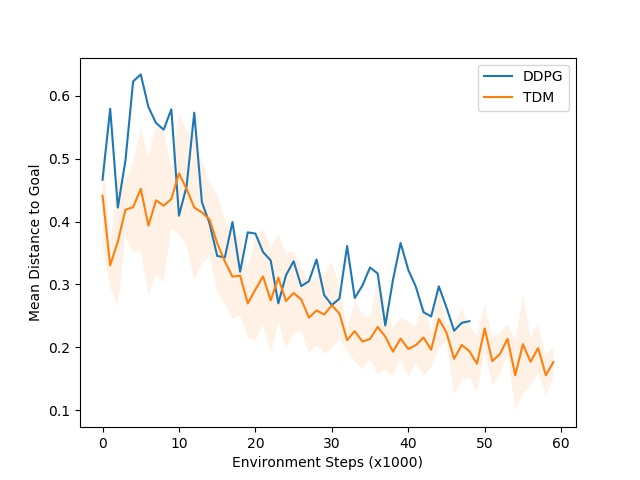
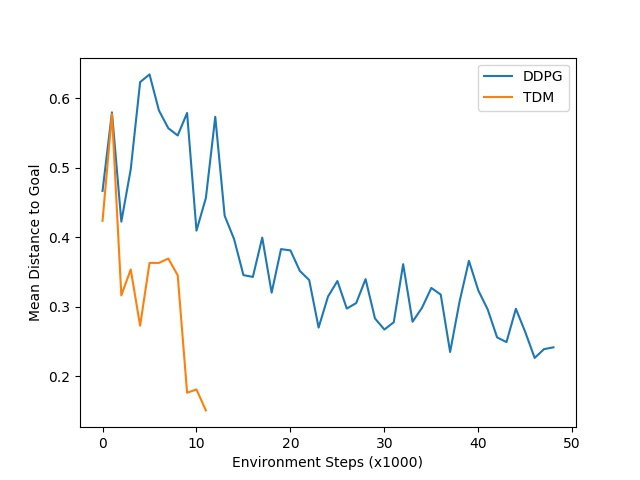
new plots

diff --git a/experiments/state_distance/iclr2018/reacher_results.py b/experiments/state_distance/iclr2018/reacher_results.py
@@ -65,14 +65,15 @@ ddpg_trials = ddpg_exp.get_trials(ddpg_criteria)
 mb_trials = mb_exp.get_trials(mb_criteria)
 her_dense_trials = her_dense_exp.get_trials(her_dense_criteria)
 
-MAX_ITERS = 100
+MAX_ITERS = 10
 
 base_key = 'Final_Euclidean_distance_to_goal_Mean'
 plt.figure()
 for trials, name, key in [
     (ddpg_trials, 'DDPG', base_key),
     (mb_trials, 'Model Based', base_key),
-    (our_trials, 'TDM', 'test_'+base_key),
+    # (our_trials, 'TDM', 'test_'+base_key),
+    (our_trials, 'TDM', base_key),
     (her_dense_trials, 'HER - Dense', 'test_'+base_key),
 ]:
     all_values = []
@@ -85,12 +86,13 @@ for trials, name, key in [
         values[:min_len]
         for values in all_values
     ])
-    costs = costs[:, :min(costs.shape[1], MAX_ITERS)]
+    if name != 'TDM':
+        costs = costs[:, :min(costs.shape[1], MAX_ITERS)]
     mean = np.mean(costs, axis=0)
     std = np.std(costs, axis=0)
     epochs = np.arange(0, len(costs[0]))
-    # if name == 'TDM':
-    #     epochs = epochs / 10
+    if name == 'TDM':
+        epochs = epochs / 10
     plt.fill_between(epochs, mean - std, mean + std, alpha=0.1)
     plt.plot(epochs, mean, label=name)
 

diff --git a/experiments/state_distance/iclr2018/sawyer_results.py b/experiments/state_distance/iclr2018/sawyer_results.py
@@ -5,12 +5,14 @@ import numpy as np
 # naf_path = "/home/vitchyr/git/rllab-rail/railrl/data/papers/iclr2018/sawyer/naf/"
 ddpg_path = "/home/vitchyr/git/rllab-rail/railrl/data/papers/iclr2018/sawyer" \
             "/ddpg-new"
-tdm_path = "/home/vitchyr/git/rllab-rail/railrl/data/papers/iclr2018/sawyer/tdm/"
+tdm_path = "/home/vitchyr/git/rllab-rail/railrl/data/papers/iclr2018/sawyer" \
+           "/tdm-new/"
 
 ddpg_csvs = get_all_csv(ddpg_path)
 # naf_csvs = get_all_csv(naf_path)
 tdm_csvs = get_all_csv(tdm_path)
 
+MAX_ITERS = 50
 plt.figure()
 for trials, name, key in [
     (ddpg_csvs, 'DDPG',
@@ -30,6 +32,10 @@ for trials, name, key in [
         values[:min_len]
         for values in all_values
     ])
+    if name == 'TDM':
+        # Murtaza said the last trial was messed up by external factors
+        costs = costs[:, :-1]
+    costs = costs[:, :min(costs.shape[1], MAX_ITERS)]
     mean = np.mean(costs, axis=0)
     std = np.std(costs, axis=0)
     epochs = np.arange(0, len(costs[0]))

diff --git a/experiments/state_distance/iclr2018/pusher_results.py b/experiments/state_distance/iclr2018/pusher_results.py
@@ -56,7 +56,7 @@ ddpg_trials = ddpg_exp.get_trials(ddpg_criteria)
 mb_trials = mb_exp.get_trials(mb_criteria)
 our_trials = our_exp.get_trials(our_criteria)
 her_dense_trials = her_dense_exp.get_trials(her_dense_criteria)
-MAX_ITERS = 100
+MAX_ITERS = 40
 
 base_key = 'Final_Euclidean_distance_to_goal_Mean'
 plt.figure()

diff --git a/experiments/state_distance/iclr2018/cheetah_results.py b/experiments/state_distance/iclr2018/cheetah_results.py
@@ -43,7 +43,7 @@ her_dense_trials = her_dense_exp.get_trials(her_dense_criteria)
 print(len(ddpg_trials))
 print(len(mb_trials))
 print(len(our_trials))
-MAX_ITERS = 100
+MAX_ITERS = 20
 
 def smooth(data):
     box = np.ones(5) / 5
